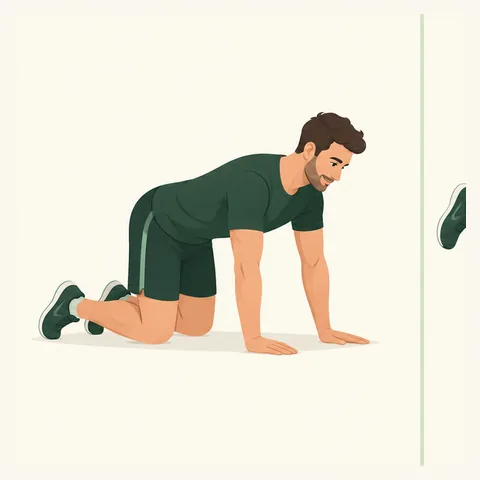
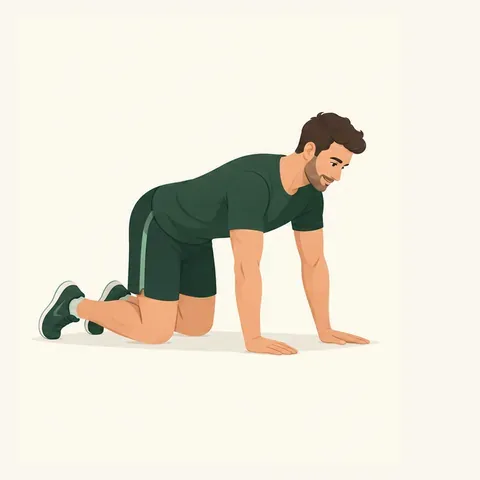
0.16.0 illustration library exp

Changed region(s): [[0.875, 0.0312, 0.9688, 0.9688]]

diff --git a/index.html b/index.html
@@ -1,10 +1,10 @@
-<!doctype html><html lang="sv"><head><meta charset="UTF-8"><meta name="viewport" content="width=device-width,initial-scale=1,maximum-scale=1,user-scalable=no,viewport-fit=cover"><meta name="theme-color" content="#173f35"><meta name="description" content="Flex – tvåspråkig träning och egna program."><meta name="apple-mobile-web-app-capable" content="yes"><meta name="apple-mobile-web-app-status-bar-style" content="default"><meta name="apple-mobile-web-app-title" content="Flex"><title>Flex – Exercise Library</title><link rel="icon" type="image/png" sizes="32x32" href="assets/icons/favicon-32.png?v=0.15.0"><link rel="apple-touch-icon" sizes="180x180" href="assets/icons/apple-touch-icon.png?v=0.15.0"><link rel="preconnect" href="https://fonts.googleapis.com"><link rel="preconnect" href="https://fonts.gstatic.com" crossorigin><link href="https://fonts.googleapis.com/css2?family=DM+Sans:wght@400;500;600;700&family=Manrope:wght@600;700;800&display=swap" rel="stylesheet"><link rel="stylesheet" href="css/style.css?v=0.15.0"><link rel="manifest" href="manifest.webmanifest?v=0.15.0"></head>
+<!doctype html><html lang="sv"><head><meta charset="UTF-8"><meta name="viewport" content="width=device-width,initial-scale=1,maximum-scale=1,user-scalable=no,viewport-fit=cover"><meta name="theme-color" content="#173f35"><meta name="description" content="Flex – tvåspråkig träning och egna program."><meta name="apple-mobile-web-app-capable" content="yes"><meta name="apple-mobile-web-app-status-bar-style" content="default"><meta name="apple-mobile-web-app-title" content="Flex"><title>Flex – Exercise Library</title><link rel="icon" type="image/png" sizes="32x32" href="assets/icons/favicon-32.png?v=0.16.0"><link rel="apple-touch-icon" sizes="180x180" href="assets/icons/apple-touch-icon.png?v=0.16.0"><link rel="preconnect" href="https://fonts.googleapis.com"><link rel="preconnect" href="https://fonts.gstatic.com" crossorigin><link href="https://fonts.googleapis.com/css2?family=DM+Sans:wght@400;500;600;700&family=Manrope:wght@600;700;800&display=swap" rel="stylesheet"><link rel="stylesheet" href="css/style.css?v=0.16.0"><link rel="manifest" href="manifest.webmanifest?v=0.16.0"></head>
 <body class="splash-active">
  <div class="splash-screen" id="splashScreen" role="status" aria-label="Flex startar · Flex is starting"><div class="splash-glow" aria-hidden="true"></div><div class="splash-content"><img src="assets/icons/icon-512.png" alt="Flex"><h1>Flex</h1><p>Din rörelse · Your movement</p></div></div>
  <header class="topbar"><button class="brand" data-go="home" aria-label="Flex startsida"><span class="brand-mark"><img src="assets/icons/favicon-32.png" alt=""></span><span>Flex</span></button><button class="profile-button" id="profileButton" data-go="settings" aria-label="Öppna inställningar"><span>RM</span></button></header>
  <main class="app-main">
   <section class="app-screen active" data-screen="home">
-   <div class="home-hero"><p class="eyebrow">FLEX · VERSION 0.15.0</p><h1>Din rörelse.<br><em>Ditt program.</em></h1><p>Utforska 125 övningar på svenska och engelska, eller bygg ett eget träningspass.</p><div class="hero-actions"><button class="primary-action" data-go="discover">Utforska övningar <span>→</span></button><button class="secondary-action" data-go="programs">Skapa program</button></div></div>
+   <div class="home-hero"><p class="eyebrow">FLEX · VERSION 0.16.0</p><h1>Din rörelse.<br><em>Ditt program.</em></h1><p>Utforska 125 övningar på svenska och engelska, eller bygg ett eget träningspass.</p><div class="hero-actions"><button class="primary-action" data-go="discover">Utforska övningar <span>→</span></button><button class="secondary-action" data-go="programs">Skapa program</button></div></div>
    <div class="home-grid"><button class="home-feature feature-library" data-go="discover"><span>125</span><div><b>Övningar</b><small>Yoga, styrka, Pilates och mer</small></div><i>→</i></button><button class="home-feature feature-guide" data-go="discover" data-start-guide><span>◎</span><div><b>Hitta rätt rörelse</b><small>Guidad sökning · Guided search</small></div><i>→</i></button></div>
    <button class="training-entry home-training-entry" data-go="training"><span>↗</span><div><b>Min träning · My training</b><small>Logga pass, följ utveckling och sätt mål · Log workouts, track progress and set goals</small></div><i>→</i></button>
    <section class="home-programs"><div class="section-title"><div><p class="eyebrow">MIN TRÄNING · MY TRAINING</p><h2>Dina program</h2></div><button class="text-action" data-go="programs">Visa alla</button></div><div id="homePrograms" class="program-preview"></div></section>
@@ -33,7 +33,7 @@
 
   <section class="app-screen" data-screen="settings">
    <div class="screen-heading"><p class="eyebrow">PROFIL · SETTINGS</p><h1>Inställningar</h1><p>Anpassa hur Flex fungerar för dig.</p></div>
-   <div class="settings-card"><div class="settings-profile"><span>RM</span><div><b>Min profil · My profile</b><small>All information sparas lokalt på enheten · All information is stored locally on this device</small></div></div><div class="setting-group"><p>SPRÅK · LANGUAGE</p><button class="setting-row" id="languageButton" aria-expanded="false"><span class="setting-icon">文</span><span><b>Visningsspråk</b><small id="languageShort">SV + EN</small></span><i>›</i></button><div class="language-menu settings-language" id="languageMenu" hidden><button data-language="both" class="active">Svenska + English <span>✓</span></button><button data-language="sv">Endast svenska <span>✓</span></button><button data-language="en">English only <span>✓</span></button></div></div><div class="setting-group"><p>OM FLEX · ABOUT</p><div class="setting-row static"><span class="setting-icon">F</span><span><b>Version</b><small>0.15.0 · Swipeable Illustration Steps</small></span></div><button class="setting-row" id="changelogButton"><span class="setting-icon">↻</span><span><b>Alla uppdateringar</b><small>Se versionshistorik</small></span><i>›</i></button></div></div>
+   <div class="settings-card"><div class="settings-profile"><span>RM</span><div><b>Min profil · My profile</b><small>All information sparas lokalt på enheten · All information is stored locally on this device</small></div></div><div class="setting-group"><p>SPRÅK · LANGUAGE</p><button class="setting-row" id="languageButton" aria-expanded="false"><span class="setting-icon">文</span><span><b>Visningsspråk</b><small id="languageShort">SV + EN</small></span><i>›</i></button><div class="language-menu settings-language" id="languageMenu" hidden><button data-language="both" class="active">Svenska + English <span>✓</span></button><button data-language="sv">Endast svenska <span>✓</span></button><button data-language="en">English only <span>✓</span></button></div></div><div class="setting-group"><p>OM FLEX · ABOUT</p><div class="setting-row static"><span class="setting-icon">F</span><span><b>Version</b><small>0.16.0 · Illustration Library Expansion</small></span></div><button class="setting-row" id="changelogButton"><span class="setting-icon">↻</span><span><b>Alla uppdateringar</b><small>Se versionshistorik</small></span><i>›</i></button></div></div>
   </section>
  </main>
 
@@ -46,5 +46,5 @@
   <button data-go="programs"><svg viewBox="0 0 24 24"><path d="M7 4h10M7 9h10M7 14h6M4 4h.01M4 9h.01M4 14h.01"/><rect x="3" y="2" width="18" height="20" rx="3"/></svg><span>Program</span></button>
   <button data-go="study"><svg viewBox="0 0 24 24"><path d="M4 5a3 3 0 0 1 3-3h5v18H7a3 3 0 0 0-3 3Z"/><path d="M20 5a3 3 0 0 0-3-3h-5v18h5a3 3 0 0 1 3 3Z"/></svg><span>Studera</span></button>
  </nav>
- <button id="savedLink" hidden aria-hidden="true"></button><script src="js/exercise-data.js?v=0.15.0"></script><script src="js/app.js?v=0.15.0"></script><script src="js/navigation.js?v=0.15.0"></script>
+ <button id="savedLink" hidden aria-hidden="true"></button><script src="js/exercise-data.js?v=0.16.0"></script><script src="js/app.js?v=0.16.0"></script><script src="js/navigation.js?v=0.16.0"></script>
 </body></html>

diff --git a/js/navigation.js b/js/navigation.js
@@ -1,5 +1,6 @@
-const FLEX_VERSION='0.15.0';
+const FLEX_VERSION='0.16.0';
 const changelog=[
+ {version:'0.16.0',name:'Illustration Library Expansion',date:'16 september 2026',items:['Nya svepbara bildserier för utfall, armhävning och tåhävning · New swipeable image series for lunge, push-up and calf raise','Sju övningar har nu 21 separata WebP-steg · Seven exercises now have 21 separate WebP steps','Bildkanter är kvalitetssäkrade utan delar från nästa pose · Image edges are quality-checked without fragments from neighbouring poses','Ersatta originalbilder arkiverade utanför appmappen · Replaced original images archived outside the app folder']},
  {version:'0.15.0',name:'Swipeable Illustration Steps',date:'16 september 2026',items:['Tre separata svepbara bilder per övning · Three separate swipeable images per exercise','Nya bilder för knäböj, fågelhund, höftlyft och väggglidning · New images for squat, bird dog, glute bridge and wall slide','Två kvinnliga och två manliga bildserier · Two female and two male image series','Gamla pilotbilder flyttade utanför appmappen · Old pilot images moved outside the app folder']},
  {version:'0.14.0',name:'Compressed Illustration Test',date:'16 september 2026',items:['Snygg platt illustration testad som WebP och AVIF · Polished flat illustration tested as WebP and AVIF','Rekommenderad mobilfil är cirka 13 KB · Recommended mobile file is about 13 KB','Primitiva SVG-bilder bortkopplade från appen · Primitive SVG images disconnected from the app','Knäböj visar det nya WebP-provet · Squat displays the new WebP test']},
  {version:'0.13.0',name:'Inclusive Illustration System',date:'16 september 2026',items:['Första sex platta SVG-instruktionerna · First six flat SVG instructions','Tre kvinnliga och tre manliga figurer · Three female and three male figures','Endast 7,6 KB för hela första serien · Only 7.6 KB for the complete first series','SVG-bilder visas utan beskärning · SVG images display without cropping']},

diff --git a/js/exercise-data.js b/js/exercise-data.js
@@ -136,6 +136,9 @@
     squat:['assets/illustrations/squat-female-1.webp','assets/illustrations/squat-female-2.webp','assets/illustrations/squat-female-3.webp'],
     birddog:['assets/illustrations/birddog-male-1.webp','assets/illustrations/birddog-male-2.webp','assets/illustrations/birddog-male-3.webp'],
     bridge:['assets/illustrations/bridge-female-1.webp','assets/illustrations/bridge-female-2.webp','assets/illustrations/bridge-female-3.webp'],
-    'shoulder-wall-slide':['assets/illustrations/shoulder-wall-slide-male-1.webp','assets/illustrations/shoulder-wall-slide-male-2.webp','assets/illustrations/shoulder-wall-slide-male-3.webp']
+    'shoulder-wall-slide':['assets/illustrations/shoulder-wall-slide-male-1.webp','assets/illustrations/shoulder-wall-slide-male-2.webp','assets/illustrations/shoulder-wall-slide-male-3.webp'],
+    lunge:['assets/illustrations/lunge-male-1.webp','assets/illustrations/lunge-male-2.webp','assets/illustrations/lunge-male-3.webp'],
+    pushup:['assets/illustrations/pushup-female-1.webp','assets/illustrations/pushup-female-2.webp','assets/illustrations/pushup-female-3.webp'],
+    calf:['assets/illustrations/calf-male-1.webp','assets/illustrations/calf-male-2.webp','assets/illustrations/calf-male-3.webp']
   };
 })();
